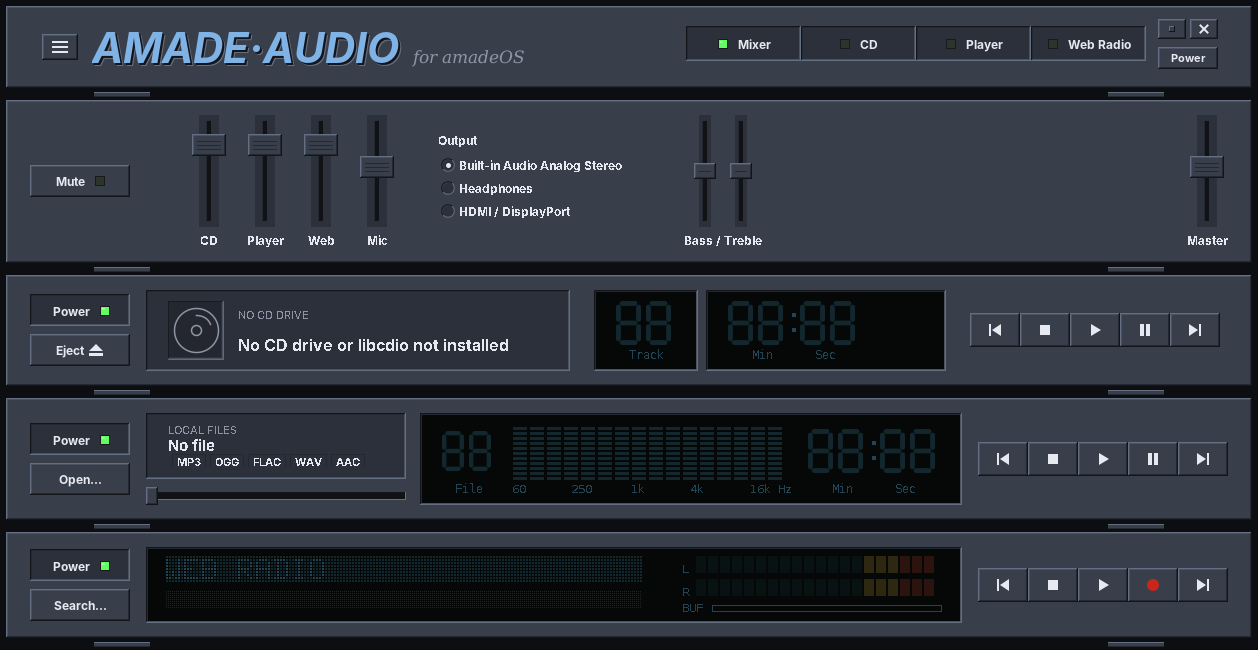
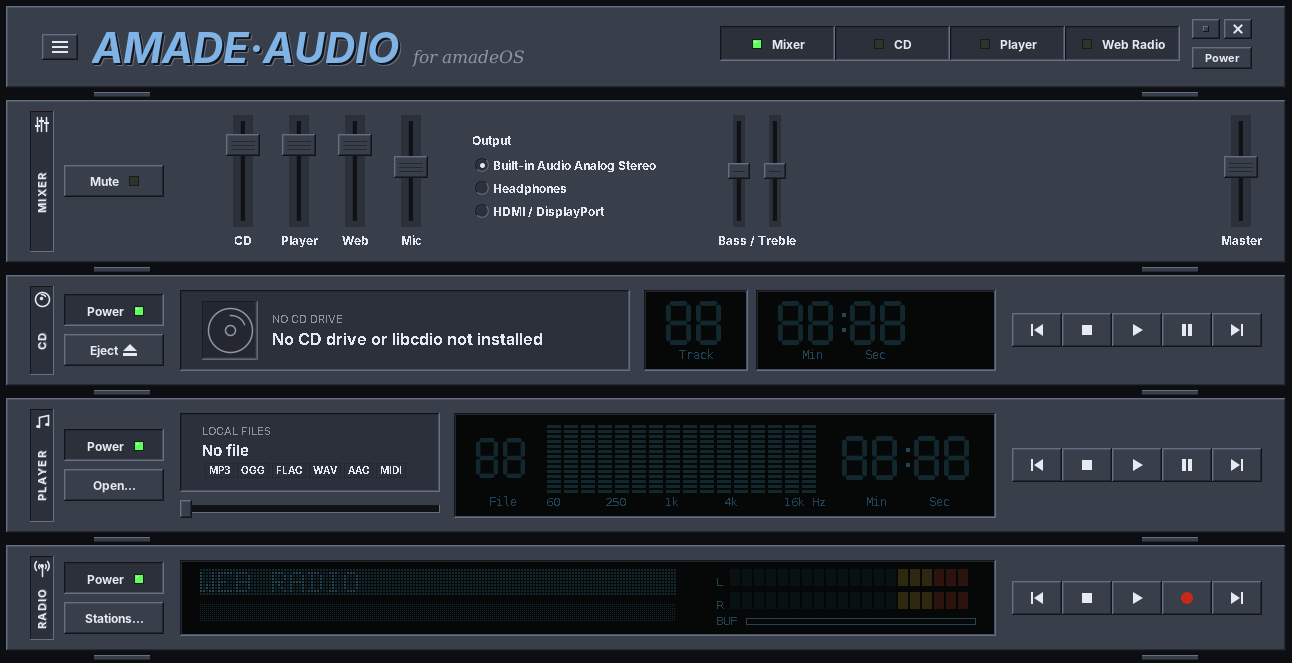
Name plates for the racks
Each rack gets a vertical name plate at its left edge with an own symbol and
its name engraved in the theme's colours (MIXER, CD, PLAYER, RADIO), so it is
clear which rack does what. Plain text, so it can be translated.

Claude-Session: https://claude.ai/code/session_01CdDBpJLV5yB3DpQ6z2k95d

Changed region(s): [[0.0, 0.0308, 1.0, 0.9846], [0.0, 0.2462, 0.124, 0.3077], [0.93, 0.2154, 0.961, 0.2769]]

diff --git a/src/main/java/org/datazuul/amadeos/audio/ui/widget/DeviceLabel.java b/src/main/java/org/datazuul/amadeos/audio/ui/widget/DeviceLabel.java
@@ -1,0 +1,116 @@
+package org.datazuul.amadeos.audio.ui.widget;
+
+import org.datazuul.amadeos.commons.swing.AmadeUI;
+import org.datazuul.amadeos.commons.theme.DesktopTheme;
+
+import java.awt.*;
+import java.awt.geom.AffineTransform;
+import java.awt.geom.Path2D;
+
+/**
+ * The name of a rack on a vertical name plate at its left edge, engraved in the theme's colours below
+ * an own symbol per device. Plain text, so it can be translated.
+ */
+public final class DeviceLabel {
+    public enum Symbol { MIXER, DISC, FILES, RADIO }
+
+    static final int PLATE_WIDTH = 24;
+
+    private final String name;
+    private final Symbol symbol;
+
+    /** @param name short, as the plate is only as long as the rack is high, e.g. {@code PLAYER} */
+    public DeviceLabel(String name, Symbol symbol) {
+        this.name = name;
+        this.symbol = symbol;
+    }
+
+    /** Extra space the plate needs inside the rack, at the left. */
+    Insets space() {
+        return new Insets(0, PLATE_WIDTH + 10, 0, 0);
+    }
+
+    /** Paints into the rack's content area {@code (x, y, w, h)} (inside the bevel and padding). */
+    void paint(Graphics2D g, Rectangle area) {
+        DesktopTheme t = AmadeUI.theme();
+        g.setRenderingHint(RenderingHints.KEY_ANTIALIASING, RenderingHints.VALUE_ANTIALIAS_ON);
+        g.setRenderingHint(RenderingHints.KEY_TEXT_ANTIALIASING, RenderingHints.VALUE_TEXT_ANTIALIAS_ON);
+        Font font = new Font(Font.SANS_SERIF, Font.BOLD, 11);
+        int x = area.x - PLATE_WIDTH - 10;
+        int y = area.y - 4;
+        int h = area.height + 8;
+        g.setColor(t.sunkenBg());
+        g.fillRect(x, y, PLATE_WIDTH, h);
+        AmadeUI.paintBevel(g, x, y, PLATE_WIDTH, h, false, 1);
+        paintSymbol(g, x + (PLATE_WIDTH - 14) / 2, y + 6, 14, accent(t));
+        // Text reading upwards, from the bottom of the plate.
+        int available = h - 32;
+        Font spaced = font.deriveFont(java.util.Map.of(java.awt.font.TextAttribute.TRACKING, 0.12));
+        g.setFont(spaced);
+        FontMetrics fm = g.getFontMetrics();
+        int textW = fm.stringWidth(name);
+        int tx = x + PLATE_WIDTH / 2 + fm.getAscent() / 2 - 1;
+        int ty = y + h - 6 - Math.max(0, (available - textW) / 2);
+        AffineTransform old = g.getTransform();
+        g.rotate(-Math.PI / 2, tx, ty);
+        engrave(g, name, tx, ty, t);
+        g.setTransform(old);
+    }
+
+    /** Text pressed into the plate: light edge below right, dark letters. */
+    private static void engrave(Graphics2D g, String text, int x, int y, DesktopTheme t) {
+        g.setColor(t.highlight());
+        g.drawString(text, x + 1, y + 1);
+        g.setColor(t.isDark() ? t.textActive() : t.darkShadow());
+        g.drawString(text, x, y);
+    }
+
+    private static Color accent(DesktopTheme t) {
+        Color c = t.activeTitleBg();
+        int d = Math.abs(c.getRed() - t.base().getRed()) + Math.abs(c.getGreen() - t.base().getGreen())
+                + Math.abs(c.getBlue() - t.base().getBlue());
+        return d < 60 ? (t.isDark() ? t.textActive() : t.darkShadow()) : c;
+    }
+
+    private void paintSymbol(Graphics2D g, int x, int y, int s, Color c) {
+        g.setColor(c);
+        Stroke old = g.getStroke();
+        g.setStroke(new BasicStroke(Math.max(1.4f, s / 9f), BasicStroke.CAP_ROUND, BasicStroke.JOIN_ROUND));
+        switch (symbol) {
+            case MIXER -> {
+                for (int i = 0; i < 3; i++) {
+                    int lx = x + s / 6 + i * s / 3;
+                    g.drawLine(lx, y, lx, y + s);
+                    int ky = y + (i == 1 ? s / 4 : i == 0 ? s * 3 / 5 : s * 2 / 5);
+                    g.fillRect(lx - s / 7, ky, 2 * s / 7 + 1, Math.max(2, s / 6));
+                }
+            }
+            case DISC -> {
+                g.drawOval(x, y, s, s);
+                g.drawOval(x + s * 2 / 5, y + s * 2 / 5, s / 5, s / 5);
+                g.drawArc(x + s / 6, y + s / 6, s * 2 / 3, s * 2 / 3, 30, 60);
+            }
+            case FILES -> {
+                int r = Math.max(3, s / 4);
+                g.fillOval(x + 1, y + s - r - 1, r + 1, r);
+                g.fillOval(x + s - r - 1, y + s - r - 3, r + 1, r);
+                g.drawLine(x + r + 1, y + s - r / 2 - 1, x + r + 1, y + 2);
+                g.drawLine(x + s - 1, y + s - r / 2 - 3, x + s - 1, y);
+                Path2D beam = new Path2D.Float();
+                beam.moveTo(x + r + 1, y + 2);
+                beam.lineTo(x + s - 1, y);
+                g.draw(beam);
+            }
+            case RADIO -> {
+                int cx = x + s / 2;
+                g.drawLine(cx, y + s / 3, cx, y + s);
+                g.fillOval(cx - 2, y + s / 3 - 2, 4, 4);
+                g.drawArc(cx - s / 4, y + s / 3 - s / 4, s / 2, s / 2, -40, 80);
+                g.drawArc(cx - s / 4, y + s / 3 - s / 4, s / 2, s / 2, 140, 80);
+                g.drawArc(cx - s / 2, y + s / 3 - s / 2, s, s, -40, 80);
+                g.drawArc(cx - s / 2, y + s / 3 - s / 2, s, s, 140, 80);
+            }
+        }
+        g.setStroke(old);
+    }
+}

diff --git a/src/main/java/org/datazuul/amadeos/audio/ui/widget/RackPanel.java b/src/main/java/org/datazuul/amadeos/audio/ui/widget/RackPanel.java
@@ -7,6 +7,8 @@ import java.awt.*;
 
 /** The front plate of a rack: theme colour with a raised bevel. */
 public class RackPanel extends JPanel {
+    private static final Insets PADDING = new Insets(10, 14, 10, 14);
+    private DeviceLabel label;
     public RackPanel(LayoutManager layout) {
         super(layout);
         setOpaque(true);
@@ -24,10 +26,24 @@ public class RackPanel extends JPanel {
         return new Dimension(Short.MAX_VALUE, getPreferredSize().height);
     }
 
+    /** Engraves the device's name into the rack front. */
+    public void setDeviceLabel(String name, DeviceLabel.Symbol symbol) {
+        label = new DeviceLabel(name, symbol);
+        Insets extra = label.space();
+        setBorder(BorderFactory.createCompoundBorder(AmadeUI.raised(), BorderFactory.createEmptyBorder(
+                PADDING.top + extra.top, PADDING.left + extra.left, PADDING.bottom, PADDING.right)));
+    }
+
     @Override
     protected void paintComponent(Graphics g) {
         g.setColor(AmadeUI.theme().base());
         g.fillRect(0, 0, getWidth(), getHeight());
+        if (label != null) {
+            Insets in = getInsets();
+            Graphics2D g2 = (Graphics2D) g.create();
+            label.paint(g2, new Rectangle(in.left, in.top, getWidth() - in.left - in.right, getHeight() - in.top - in.bottom));
+            g2.dispose();
+        }
     }
 
     /** A vertical column of side buttons (Power, Eject, ...), all the same width. */

diff --git a/src/main/java/org/datazuul/amadeos/audio/ui/rack/webradio/WebRadioRack.java b/src/main/java/org/datazuul/amadeos/audio/ui/rack/webradio/WebRadioRack.java
@@ -5,6 +5,7 @@ import org.datazuul.amadeos.audio.ui.widget.LcdPalette;
 import org.datazuul.amadeos.audio.ui.widget.LcdPanel;
 import org.datazuul.amadeos.audio.ui.widget.Led;
 import org.datazuul.amadeos.audio.ui.widget.LevelMeter;
+import org.datazuul.amadeos.audio.ui.widget.DeviceLabel;
 import org.datazuul.amadeos.audio.ui.widget.RackPanel;
 import org.datazuul.amadeos.audio.ui.widget.Widget;
 import org.datazuul.amadeos.audio.ui.widget.TransportIcon;
@@ -32,6 +33,7 @@ public final class WebRadioRack extends RackPanel {
 
     WebRadioRack(WebRadioPresenter p) {
         super(new BorderLayout(16, 0));
+        setDeviceLabel("RADIO", DeviceLabel.Symbol.RADIO);
         power.setSelected(true);
         power.addActionListener(e -> p.power(power.isSelected()));
         stations.addActionListener(e -> p.showStations());

diff --git a/src/main/java/org/datazuul/amadeos/audio/ui/rack/cd/CdRack.java b/src/main/java/org/datazuul/amadeos/audio/ui/rack/cd/CdRack.java
@@ -3,6 +3,7 @@ package org.datazuul.amadeos.audio.ui.rack.cd;
 import org.datazuul.amadeos.audio.ui.widget.CoverView;
 import org.datazuul.amadeos.audio.ui.widget.LcdPanel;
 import org.datazuul.amadeos.audio.ui.widget.Led;
+import org.datazuul.amadeos.audio.ui.widget.DeviceLabel;
 import org.datazuul.amadeos.audio.ui.widget.RackPanel;
 import org.datazuul.amadeos.audio.ui.widget.SevenSegmentDisplay;
 import org.datazuul.amadeos.audio.ui.widget.TransportIcon;
@@ -31,6 +32,7 @@ public final class CdRack extends RackPanel {
 
     CdRack(CdPresenter p) {
         super(new BorderLayout(16, 0));
+        setDeviceLabel("CD", DeviceLabel.Symbol.DISC);
         power.setSelected(true);
         power.addActionListener(e -> p.power(power.isSelected()));
         eject.addActionListener(e -> p.eject());

diff --git a/src/main/java/org/datazuul/amadeos/audio/ui/rack/player/PlayerRack.java b/src/main/java/org/datazuul/amadeos/audio/ui/rack/player/PlayerRack.java
@@ -2,6 +2,7 @@ package org.datazuul.amadeos.audio.ui.rack.player;
 
 import org.datazuul.amadeos.audio.ui.widget.LcdPanel;
 import org.datazuul.amadeos.audio.ui.widget.Led;
+import org.datazuul.amadeos.audio.ui.widget.DeviceLabel;
 import org.datazuul.amadeos.audio.ui.widget.RackPanel;
 import org.datazuul.amadeos.audio.ui.widget.SeekBar;
 import org.datazuul.amadeos.audio.ui.widget.SevenSegmentDisplay;
@@ -37,6 +38,7 @@ public final class PlayerRack extends RackPanel {
 
     PlayerRack(PlayerPresenter p) {
         super(new BorderLayout(16, 0));
+        setDeviceLabel("PLAYER", DeviceLabel.Symbol.FILES);
         power.setSelected(true);
         power.addActionListener(e -> p.power(power.isSelected()));
         open.addActionListener(e -> p.openFiles());

diff --git a/src/main/java/org/datazuul/amadeos/audio/ui/rack/mixer/MixerRack.java b/src/main/java/org/datazuul/amadeos/audio/ui/rack/mixer/MixerRack.java
@@ -3,6 +3,7 @@ package org.datazuul.amadeos.audio.ui.rack.mixer;
 import org.datazuul.amadeos.audio.domain.SourceId;
 import org.datazuul.amadeos.audio.ui.widget.Fader;
 import org.datazuul.amadeos.audio.ui.widget.Led;
+import org.datazuul.amadeos.audio.ui.widget.DeviceLabel;
 import org.datazuul.amadeos.audio.ui.widget.RackPanel;
 
 import javax.swing.*;
@@ -28,6 +29,7 @@ public final class MixerRack extends RackPanel {
 
     MixerRack() {
         super(new BorderLayout(18, 0));
+        setDeviceLabel("MIXER", DeviceLabel.Symbol.MIXER);
         for (SourceId id : SourceId.values()) faders.put(id, new Fader(id.label() + " volume", FADER_HEIGHT, false, false));
 
         JPanel channels = new JPanel(new FlowLayout(FlowLayout.LEFT, 18, 0));
